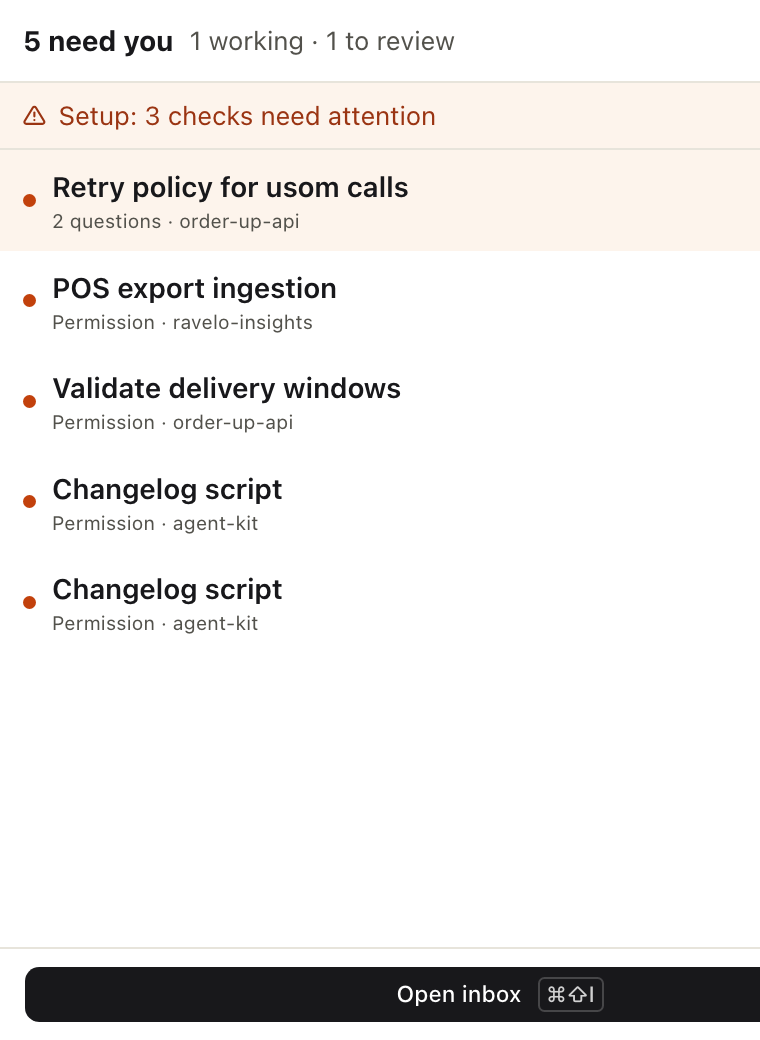
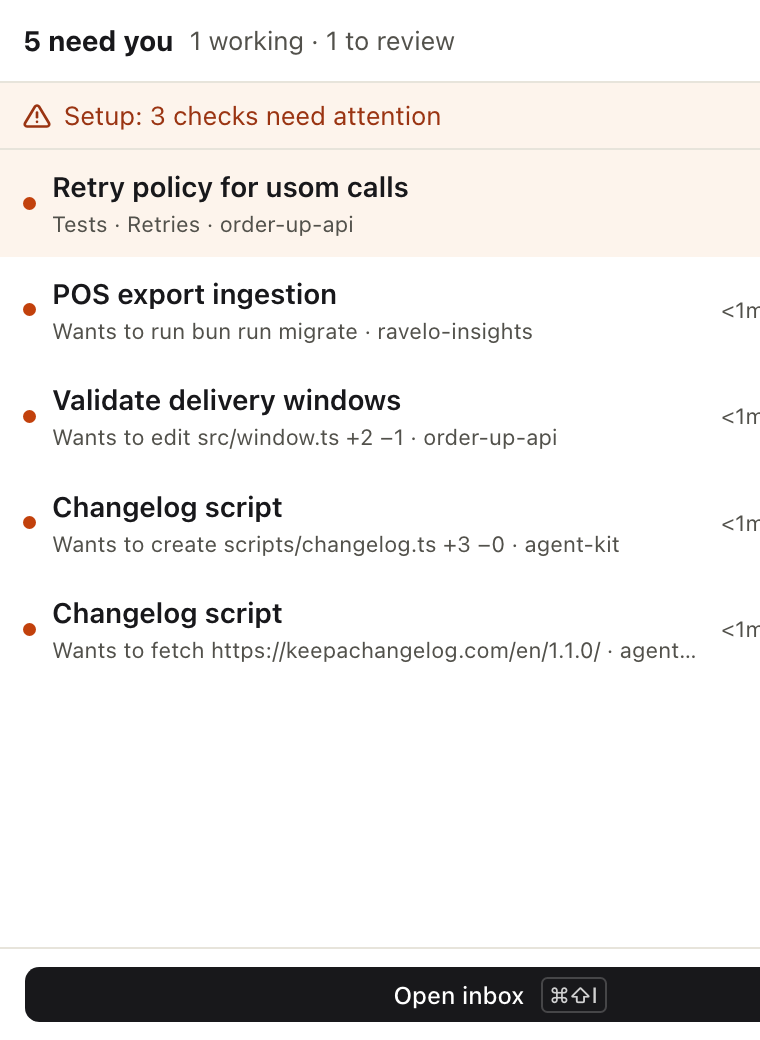
UX log second pass, docs and screenshots for History and the UX fixes
Re-measured on the real daemon: clearing four tool calls is 4 steps (was 7),
a review item 1 (was 2), the popover answers in 2 (was 3); smallest text is
11px (was 9.75px). Docs pages, changelog and all screenshots updated; G-033
and U-077 recorded.

diff --git a/apps/desktop/src/view/preview.ts b/apps/desktop/src/view/preview.ts
@@ -213,7 +213,10 @@ const commandView = (h: H, p: Extract<ApprovalPreview, { _tag: "command" }>): Ht
             ? h.empty
             : h.span(
                 [h.Title(p.cwd)],
-                ["in ", h.span([h.Class("font-mono")], [p.displayCwd ?? p.cwd])],
+                // "." is the daemon's word for the project root; "in ." reads like a typo (UX-060).
+                p.displayCwd === "."
+                  ? ["in the project folder"]
+                  : ["in ", h.span([h.Class("font-mono")], [p.displayCwd ?? p.cwd])],
               ),
           p.timeoutMs === undefined ? h.empty : h.span([], [`timeout ${seconds(p.timeoutMs)}`]),
           p.background === true ? h.span([], ["runs in the background"]) : h.empty,

diff --git a/apps/desktop/src/view/detail.ts b/apps/desktop/src/view/detail.ts
@@ -1097,7 +1097,14 @@ const activityView = (model: Model, detail: ItemDetail, h: H): Html => {
         [
           h.h2(
             [h.Class("text-[14px] font-semibold")],
-            [entries.length === 0 ? "No activity yet" : `Since you left · ${minutes} min`],
+            [
+              entries.length === 0
+                ? "No activity yet"
+                : // A finished item is a record, not something you stepped away from (UX-061).
+                  detail.item.queue === "done"
+                  ? "Session activity"
+                  : `Since you left · ${minutes} min`,
+            ],
           ),
           h.button(
             [

diff --git a/UX.md b/UX.md
@@ -14,101 +14,124 @@ The audience is a power user who runs several Claude Code sessions at once. Dens
 
 ## Scorecard
 
-| Feature | 2026-11-10 baseline | Why |
-| --- | --- | --- |
-| Notification banners and their buttons | not graded | No person has seen them yet (see the docs' "Not yet verified by a person" list). One click by design. |
-| Menu-bar popover | 6 | Counts are clear. Rows show the session and "Permission" but not what is being asked, so two requests from one session look identical; nothing can be decided here. |
-| Inbox window layout (tree, queue, detail) | 7 | The three panes are easy to read. The context strip spends four boxed cells on one line of facts and pushes the action down. |
-| Session tree | 7 | Arrow keys, counts per project, agents nested. The blue dot means "working" here and "unread" in the queue. |
-| Queue tabs and list | 6 | The four tabs wrap onto two rows at the default width. No keyboard way through the list. After an answer the selection stays on the finished item. |
-| Answering questions | 8 | Options, Other, a single Send, ⌘↵. The Other field wraps onto its own line for one question and not the next. |
-| Approving a tool call (diff, command, fetch) | 8 | The preview and "what Claude said" are the best part of the app. The title says "Claude wants to use Edit" while the queue row says the useful thing. No way to deny with a note. After deciding, disabled buttons and the Always allow hint stay on screen. |
-| Always allow | 8 | It says exactly which rule is added and where. The sentence is set at 9.75px. |
-| Ready to review and Stopped with errors | 5 | The natural last step, "I've looked, clear it", is Dismiss inside the Snooze menu. |
-| Replies | 6 | Works where the `claude` CLI is logged in. The reason it can't send is shown, which is good. |
-| Snooze, dismiss, mute | 5 | Three different actions under a button labelled Snooze. Mute is only found there, and unmute only in Settings. The menu is offered on finished items, where the daemon refuses it. |
-| Jump to session (⌘K) | 8 | Fast, shows project and state. |
-| Open in Claude | 9 | One click from every item; lands on the exact session. |
-| Settings | 6 | Applies live with no Save, without saying so. Two fields are both called "Wait for an answer". Classic-only settings stay on screen with "Not used…" repeated three times. The title reads "Settings · ga". |
-| Setup check | 8 | Each line says what is wrong and offers the fix. |
-| Update banner and Update now | not graded | Not exercised in this pass. |
-| History and search | not graded | Being built on 2026-11-10; graded in the next column. |
-| Keyboard | 5 | ⌘↵, ⌘⌫, ⌘K, ⌘, and the tree arrows exist. Nothing moves through the queue, nothing clears a review item, and there is no list of shortcuts in the app. |
-| Type, icons and radius | 5 | One family and a consistent radius. But the root size is 13px, so every `text-xs` label renders at 9.75px (38 of them on the main view) and icons at 10–11px. |
-| Dark mode | 8 | Matches light closely; tones hold up. |
-| Accessibility basics | 7 | Every control has a name; roles for tabs, tree and radios are right. The 9.75px text and a few 20–23px targets are the gaps. |
+| Feature | 2026-11-10 baseline (`79a7376`) | 2026-11-10 after fixes (`3b2144c`) | Why it is where it is now |
+| --- | --- | --- | --- |
+| Notification banners and their buttons | not graded | not graded | No person has seen them yet (see the docs' "Not yet verified by a person" list). One click by design. |
+| Menu-bar popover | 6 | 8 | Rows now say what is asked, and a waiting tool call has **Allow** and **Deny** on its row. No preview and no Always allow there; items to review aren't listed. |
+| Inbox window layout (tree, queue, detail) | 7 | 8 | The boxed context strip is one line of facts, so the action sits about 70px higher. |
+| Session tree | 7 | 8 | Arrow keys, counts, nested agents. Blue now only means "working". |
+| Queue tabs and list | 6 | 8 | One row of tabs, `j` / `k` through the list, and the next item is selected after an answer. |
+| Answering questions | 8 | 8 | The Other field is laid out the same for every question and the footer says what really happens. No number keys for options. |
+| Approving a tool call (diff, command, fetch) | 8 | 9 | The title says what is asked, Deny takes a note, and a decided card is one clean line. |
+| Always allow | 8 | 8 | Says exactly which rule is added and where, now at 11px. |
+| Ready to review and Stopped with errors | 5 | 8 | A **Done** button and `e`. The item you just cleared doesn't say "Dismissed" until you look in History. |
+| Replies | 6 | 6 | Unchanged. Works where the `claude` CLI is logged in, and says why when it can't send. |
+| Snooze, dismiss, mute | 5 | 6 | Done left the menu for review and failed items, and the menu is gone from finished ones. Dismiss (questions, permissions) and Mute are still found only by opening Snooze. |
+| Jump to session (⌘K) | 8 | 8 | Fast, shows project and state. |
+| Open in Claude | 9 | 9 | One click from every item; lands on the exact session. |
+| Settings | 6 | 8 | Says changes apply at once, shows classic-only settings only in classic mode, and drops "ga". |
+| Setup check | 8 | 8 | Each line says what is wrong and offers the fix. |
+| Update banner and Update now | not graded | not graded | Not exercised in either pass. |
+| History and search | not there | 8 | Finished items by day with how each ended, word search with a "Matched in…" line, kind chips, `j` / `k`. No key to focus the search field, no project or date filter, and the first entry isn't selected for you. |
+| Keyboard | 5 | 8 | `j` / `k`, `e`, `?` and a shortcut list joined ⌘↵, ⌘⌫, ⌘K and ⌘,. Still no key for Snooze, Always allow or a question's options. |
+| Type, icons and radius | 5 | 8 | Six text sizes from 11 to 22px (was eight, down to 9.75px); icons 12, 14 and 16px (was 10 to 13px). |
+| Dark mode | 8 | 8 | Matches light closely, History included. |
+| Accessibility basics | 7 | 8 | Every control named, no text under 11px, no target under 24px, no pair under 4.5:1 on the main view. |
 
 ## Step log
 
-Starting point unless stated: the inbox window is open on **Needs you** with the first item selected.
+Starting point unless stated: the inbox window is open on **Needs you** with the first item selected. Counts in the second column were re-taken on the real daemon (the demo) after the fixes.
 
-| # | Task | 2026-11-10 baseline | Target | Note |
-| --- | --- | --- | --- | --- |
-| 1 | Allow a tool call from its notification | 1 | 1 | Unseen by a person. |
-| 2 | Allow the selected tool call | 1 (click or ⌘↵) | 1 | |
-| 3 | Clear four waiting tool calls in a row | 7 (allow, then select + allow three times) | 4 | Needs auto-advance. |
-| 4 | Answer a two-question item | 3 (two options, Send) | 3 | |
-| 5 | Move to the next item without the mouse | not possible | 1 | Needs a queue key. |
-| 6 | Deny and tell Claude why | not possible in the inbox | 2 | Only Open in Claude today. |
-| 7 | Clear a review item after reading it | 2 (Snooze menu, Dismiss) | 1 | Needs a visible button. |
-| 8 | Snooze an item for an hour | 2 | 2 | |
-| 9 | Mute a project | 2 (Snooze menu, Mute) | 2 | Findable only by opening the Snooze menu. |
-| 10 | Unmute a project | 3 (Settings, scroll, remove) | 3 | |
-| 11 | Jump to a session by name | 3 (⌘K, type, ↵) | 3 | |
-| 12 | Open the session in Claude | 1 | 1 | |
-| 13 | Decide a tool call from the menu-bar popover | 3 (menu-bar icon, row, Allow in the window) | 2 | Would need Allow and Deny in the popover row. |
-| 14 | Tell two requests from one session apart in the popover | not possible without opening each | 0 | Rows should show what is asked. |
-| 15 | Find what you allowed yesterday | not possible | 3 (History, type, row) | Needs History. |
-| 16 | Turn approvals in the inbox off | 2 (⌘, then the checkbox) | 2 | |
-| 17 | See why notifications aren't arriving | 1 (Setup check) | 1 | |
+| # | Task | Baseline (`79a7376`) | After fixes (`3b2144c`) | Target | Note |
+| --- | --- | --- | --- | --- | --- |
+| 1 | Allow a tool call from its notification | 1 | 1 | 1 | Unseen by a person. |
+| 2 | Allow the selected tool call | 1 | 1 | 1 | Click or ⌘↵. |
+| 3 | Clear four waiting tool calls in a row | 7 | 4 | 4 | ⌘↵ four times; the next item is selected for you. |
+| 4 | Answer a two-question item | 3 | 3 | 3 | Two options, Send. |
+| 5 | Move to the next item without the mouse | not possible | 1 | 1 | `j`. |
+| 6 | Deny and tell Claude why | not possible | 2 | 2 | Type the note, Enter. |
+| 7 | Clear a review item after reading it | 2 | 1 | 1 | **Done** or `e`. |
+| 8 | Snooze an item for an hour | 2 | 2 | 2 | |
+| 9 | Mute a project | 2 | 2 | 2 | Still findable only by opening the Snooze menu. |
+| 10 | Unmute a project | 3 | 3 | 3 | |
+| 11 | Jump to a session by name | 3 | 3 | 3 | ⌘K, type, ↵. |
+| 12 | Open the session in Claude | 1 | 1 | 1 | |
+| 13 | Decide a tool call from the menu-bar popover | 3 | 2 | 2 | Menu-bar icon, **Allow** on the row. |
+| 14 | Tell two requests from one session apart in the popover | not possible | 0 | 0 | The row shows what is asked. |
+| 15 | Find what you allowed yesterday | not possible | 3 | 3 | History, type a word, the row. |
+| 16 | Turn approvals in the inbox off | 2 | 2 | 2 | ⌘, then the checkbox. |
+| 17 | See why notifications aren't arriving | 1 | 1 | 1 | Setup check. |
+| 18 | See the note you sent with a denial | not possible | 2 | 2 | History, the row: "Sent with the denial: …". |
 
 ## Findings
 
 ### Flow and steps
 
-- **UX-001** (open) After an answer or decision the selection stays on the finished item; the next one needs a click. Clearing N items costs 2N−1 steps.
-- **UX-002** (open) No key moves through the queue list; the arrows only work in the session tree.
-- **UX-003** (open) A review or failed item has no visible "done" action. Dismiss is in the Snooze menu.
-- **UX-004** (open) The popover row doesn't show what is being asked, and nothing can be answered there.
-- **UX-005** (open) A tool call can't be denied with a note from the inbox, although Claude's hook accepts one.
-- **UX-006** (open) Finished items could not be found again. History is being built for this.
+- **UX-001** (fixed 2026-11-10, U-059) After an answer or decision the selection stays on the finished item; the next one needs a click. Clearing N items costs 2N−1 steps.
+- **UX-002** (fixed 2026-11-10, U-060) No key moves through the queue list; the arrows only work in the session tree.
+- **UX-003** (fixed 2026-11-10, U-061) A review or failed item has no visible "done" action. Dismiss is in the Snooze menu.
+- **UX-004** (fixed 2026-11-10, U-062) The popover row doesn't show what is being asked, and nothing can be answered there.
+- **UX-005** (fixed 2026-11-10, U-063, C-028) A tool call can't be denied with a note from the inbox, although Claude's hook accepts one.
+- **UX-006** (fixed 2026-11-10, G-032, C-027, D-096, U-052 to U-058) Finished items could not be found again. History is being built for this.
 
 ### Not obvious
 
-- **UX-010** (open) The button labelled Snooze also holds Dismiss and Mute.
-- **UX-011** (open) The blue dot means "working" in the tree and "unread" in the queue.
-- **UX-012** (open) Settings apply at once, with no Save button and nothing saying so.
-- **UX-013** (open) Two settings share the label "Wait for an answer" (minutes for the default mode, seconds for classic).
-- **UX-014** (open) Classic-only settings are shown, each with "Not used while the inbox answers Claude's own prompt", while the default mode is on.
-- **UX-015** (open) "Settings · ga" shows an internal channel name.
-- **UX-016** (open) "Decided: allow at 08:23." prints the internal value, and the disabled Allow, Always allow and Deny buttons plus the Always allow hint stay under it.
-- **UX-017** (open) The Snooze menu is offered on a finished item; the daemon answers 409.
-- **UX-018** (open) The detail title for a tool call is "Claude wants to use Edit"; the queue row's "Wants to edit src/window.ts" is the informative line.
-- **UX-019** (open) The question card says the session is "paused waiting"; in the default mode Claude is also asking in its own window.
+- **UX-010** (open, partly: Done moved out for review and failed items, U-061) The button labelled Snooze also holds Dismiss and Mute.
+- **UX-011** (fixed 2026-11-10, U-069) The blue dot means "working" in the tree and "unread" in the queue.
+- **UX-012** (fixed 2026-11-10, U-074) Settings apply at once, with no Save button and nothing saying so.
+- **UX-013** (fixed 2026-11-10, U-074) Two settings share the label "Wait for an answer" (minutes for the default mode, seconds for classic).
+- **UX-014** (fixed 2026-11-10, U-074) Classic-only settings are shown, each with "Not used while the inbox answers Claude's own prompt", while the default mode is on.
+- **UX-015** (fixed 2026-11-10, U-074) "Settings · ga" shows an internal channel name.
+- **UX-016** (fixed 2026-11-10, U-064) "Decided: allow at 08:23." prints the internal value, and the disabled Allow, Always allow and Deny buttons plus the Always allow hint stay under it.
+- **UX-017** (fixed 2026-11-10, U-065) The Snooze menu is offered on a finished item; the daemon answers 409.
+- **UX-018** (fixed 2026-11-10, U-066) The detail title for a tool call is "Claude wants to use Edit"; the queue row's "Wants to edit src/window.ts" is the informative line.
+- **UX-019** (fixed 2026-11-10, U-067) The question card says the session is "paused waiting"; in the default mode Claude is also asking in its own window.
 
 ### Type, icons, radius, spacing
 
-- **UX-020** (open) Root font size is 13px, so Tailwind's `text-xs` is 9.75px: project names on rows, "waiting 1m", badges, timeline times, the Always allow sentence. Minimum should be 11px.
-- **UX-021** (open) Icons render at 10–11px beside 13px text; the kind icons in badges are hard to tell apart.
-- **UX-022** (open) The queue tabs wrap ("Snoozed 0" alone on a second row) at 1280px.
-- **UX-023** (open) The context strip is a four-cell boxed grid (Runs on, Branch, Session, Last activity) about 90px tall; Branch is often "—".
-- **UX-024** (open) "Snooze until tomorrow 9:00" wraps inside its menu.
-- **UX-025** (open) The Other field sits on its own row for one question and inline for the next.
-- **UX-026** (open) In Settings the selected tool chips are dark grey filled, which reads as disabled.
-- **UX-027** (open) A decided approval card keeps the orange "needs you" border.
+- **UX-020** (fixed 2026-11-10, U-068) Root font size is 13px, so Tailwind's `text-xs` is 9.75px: project names on rows, "waiting 1m", badges, timeline times, the Always allow sentence. Minimum should be 11px.
+- **UX-021** (fixed 2026-11-10, U-076) Icons render at 10–11px beside 13px text; the kind icons in badges are hard to tell apart.
+- **UX-022** (fixed 2026-11-10, U-070) The queue tabs wrap ("Snoozed 0" alone on a second row) at 1280px.
+- **UX-023** (fixed 2026-11-10, U-071) The context strip is a four-cell boxed grid (Runs on, Branch, Session, Last activity) about 90px tall; Branch is often "—".
+- **UX-024** (fixed 2026-11-10, U-072) "Snooze until tomorrow 9:00" wraps inside its menu.
+- **UX-025** (fixed 2026-11-10, U-072) The Other field sits on its own row for one question and inline for the next.
+- **UX-026** (fixed 2026-11-10, U-074) In Settings the selected tool chips are dark grey filled, which reads as disabled.
+- **UX-027** (fixed 2026-11-10, U-064) A decided approval card keeps the orange "needs you" border.
 
 ### Power user
 
-- **UX-030** (open) No in-app list of shortcuts.
+- **UX-030** (fixed 2026-11-10, U-073) No in-app list of shortcuts.
 - **UX-031** (open) No keys for Always allow, Snooze or picking a question's option by number.
+- **UX-032** (open) No key puts the cursor in History's search field (`/` is the usual one).
+
+### Found in the second pass
+
+- **UX-050** (fixed 2026-11-10, U-075) History's search field and chips scrolled away with the list.
+- **UX-051** (fixed 2026-11-10, U-066) A finished item's title was in the present tense ("Claude has 1 question for you").
+- **UX-052** (fixed 2026-11-10, U-075) History rows cut a long summary at one line.
+- **UX-053** (fixed 2026-11-10) The new permission title carried the diff count ("… src/window.ts +2 −1") and wrapped; the count stays on the row and above the diff.
+- **UX-054** (fixed 2026-11-10, C-028) A denial's note could be sent but not seen again; the finished item now shows "Sent with the denial: …".
+- **UX-060** (fixed 2026-11-10) A command that runs in the project root said "in ."; it says "in the project folder".
+- **UX-061** (fixed 2026-11-10) A finished item's activity was headed "Since you left · 1 min"; it is headed "Session activity".
+- **UX-062** (open) A question's detail says the count twice: the title "Claude has 2 questions for you" and the "2 questions" badge under it.
+- **UX-063** (open) The activity heading "Since you left · 1 min" doesn't say what you left; the number is the age of the oldest line shown.
+- **UX-055** (open) An item you just cleared with Done still shows its "Ready to review" badge and no "Dismissed" until you find it in History.
+- **UX-056** (open) Opening History selects nothing; the inbox selects the first item for you.
+- **UX-057** (open) History has no project or date filter; a project's name in the search box does the first.
+- **UX-058** (open) The popover lists only what needs you; an item to review is a count, not a row.
+- **UX-059** (open) `?` is read as Shift+/ and is untested on non-US keyboard layouts.
 
 ### Accessibility
 
-- **UX-040** (open) Three targets are under 24px tall: the two agent rows in the tree (23px) and "Full transcript in Claude" (20px).
+- **UX-040** (fixed 2026-11-10, U-072) Three targets are under 24px tall: the two agent rows in the tree (23px) and "Full transcript in Claude" (20px).
 
 ## Changes
 
-- 2026-11-10 — First review pass on the build at `79a7376`: scorecard, step log and findings above. The demo (`scripts/demo.ts`) now waits on its seeded requests like a real hook, so they stay answerable while you review.
+- 2026-11-10 — Second pass on `3b2144c`, re-measured on the real daemon: scores and step counts above. Still open: UX-010 (partly), UX-031, UX-032, UX-055 to UX-059, UX-062, UX-063.
+- 2026-11-10 — A denial's note shows on the finished item; permission titles drop the diff count (C-028, U-077); "in the project folder" and "Session activity" wording. Closes UX-053, UX-054, UX-060, UX-061.
+- 2026-11-10 — The review's fixes (U-059 to U-076): auto-advance, `j` / `k`, **Done** and `e`, popover rows with what is asked plus **Allow** and **Deny**, deny with a note, clean decided cards, titles, an 11px type floor, pixel-sized icons, one row of tabs, a one-line context strip, Settings clean-up, a shortcut list on `?`, a sticky History header. Closes UX-001 to UX-005, UX-011 to UX-027, UX-030, UX-040, UX-050 to UX-052.
+- 2026-11-10 — History and search (G-032, C-027, D-096, D-097, U-052 to U-058). Closes UX-006.
+- 2026-11-10 — First review pass on the build at `79a7376`: scorecard, step log and findings. The demo (`scripts/demo.ts`) now waits on its seeded requests like a real hook, so they stay answerable while you review, and seeds finished items across several days for History.
 
 ## Method notes
 

diff --git a/site/content/using-it.md b/site/content/using-it.md
@@ -33,12 +33,13 @@ When the menu-bar app isn't allowed to show notifications, or isn't running, Ses
 The menu-bar icon carries a badge with the number of items that **need you**. Click it for the popover:
 
 - a header with the counts ("2 need you", "1 working · 3 to review");
-- the items that need you, one row each. Click a row to open it in the inbox window;
+- the items that need you, one row each, with what is being asked ("Wants to run bun run migrate") and the project. Click a row to open it in the inbox window;
+- **Allow** and **Deny** on the row of a tool call that is waiting right now, so you can answer without opening the window. There is no preview and no **Always allow** here; open the row when you want to see the diff first;
 - when nothing needs you, up to five **Ready to review** rows with a one-line summary of what was done;
 - a banner row when an update is ready, and a **Setup** row when the setup check has something for you;
 - an **Open inbox** button. The shortcut <kbd>⌘</kbd><kbd>⇧</kbd><kbd>I</kbd> opens the main window from anywhere.
 
-[[screenshot popover.png 380x520 The menu-bar popover: a header with the count of items that need you, a Setup row saying how many checks need attention, rows for each item with its title, the kind of request and the project, and an Open inbox button at the bottom.]]
+[[screenshot popover.png 380x520 The menu-bar popover: a header with the count of items that need you, a Setup row saying how many checks need attention, rows for each item with its title, what is being asked and the project, Allow and Deny buttons on the tool calls that are waiting, and an Open inbox button at the bottom.]]
 
 Right-click the icon for its menu:
 
@@ -57,12 +58,14 @@ The window has a tree on the left (project, then session, then subagent), a queu
 
 - **Needs you:** questions, permission requests and failures. This is the list that drives the badge.
 - **Working:** sessions that are running right now. Nothing for you to do, but handy to see what's in flight.
-- **Ready to review:** sessions that stopped cleanly. Open one when you're ready to look at the result.
+- **Review:** sessions that stopped cleanly, the items marked **Ready to review**. Open one when you're ready to look at the result, then choose **Done**.
 - **Snoozed:** items you've put off. They come back at the time you chose and notify once.
 
 The inbox never decides which queue an item belongs in. The daemon does, and the window shows its answer.
 
-The selected item shows when and where the session runs (the desktop app or the CLI, its worktree or branch, its state and its last activity). For a finished or failed session it also shows **Claude's last message**, in full and formatted as Markdown, so you can review the result without opening Claude. A long message is collapsed; use **Show all** to expand it.
+When you answer, decide, snooze or clear the selected item, the next item in the list is selected for you, so a run of requests is one keystroke each. A reply doesn't move on, so you can see it being delivered.
+
+Under its title, the selected item has one line saying where the session runs (the desktop app or the CLI), its worktree or branch, its state and its last activity. For a finished or failed session it also shows **Claude's last message**, in full and formatted as Markdown, so you can review the result without opening Claude. A long message is collapsed; use **Show all** to expand it.
 
 Session titles come from the Claude desktop app's own title for the session when there is one. Otherwise they start as your first prompt and are replaced a moment later by a short title written by Claude, which needs the `claude` CLI to be logged in. Turn that off with **Generate short session titles** in [Settings](settings.md).
 
@@ -91,7 +94,7 @@ You have three choices:
 
 - **Allow once** lets this call run.
 - **Always allow** lets it run and adds one narrow rule, so Claude doesn't ask again for this kind of call. The card says what it adds: "Always allow adds <rule> <where>." For a file tool that's that one file, for WebFetch the host, for Bash the exact command, for an MCP tool that tool. If Claude suggests its own rule, that rule is used and the card shows where it's saved (this session, this project's `.claude/settings.local.json`, the project settings or your user settings). When no narrow rule fits, the button isn't shown. It never allows a whole tool by name. See [How approvals work](holds.md#what-each-answer-does).
-- **Deny** stops the call. Claude is told "Denied by the user in Session Inbox." and carries on.
+- **Deny** stops the call. Claude is told "Denied by the user in Session Inbox." and carries on. To say why, type in **Tell Claude why (optional)** beside the button first and press <kbd>↵</kbd> or **Deny**: Claude gets your words with the denial, and the finished item shows them as "Sent with the denial: …". The field is there while the inbox can still answer the call.
 
 In the default mode, Claude's own prompt stays on screen in Claude while you decide here, and whichever you answer first wins. Allow and answers took effect about 30 ms after the decision in testing. In the classic mode, where the call is held, an allow ran it half a second later, and the very first Bash call of a Claude session takes Claude itself about ten seconds to start, however long it was held.
 
@@ -109,10 +112,12 @@ A reply shows as pending, then delivered once the session's next activity confir
 
 ## Snooze, dismiss and mute
 
-Each item has a **Snooze** menu for putting it aside:
+A **Ready to review** or **Stopped with errors** item has a **Done** button (or press <kbd>e</kbd>): it clears the item once you've looked. In [History](#history) it shows as **Dismissed**.
+
+Each open item has a **Snooze** menu for putting it aside:
 
 - **Snooze 15 minutes**, **Snooze 1 hour** or **Snooze until tomorrow 9:00**. The item leaves **Needs you** and comes back, with one notification, when the time is up.
-- **Dismiss** closes the item without answering it.
+- **Dismiss** closes a question or permission request without answering it. Review and failed items have **Done** instead.
 - **Mute** the project stops that project's items from notifying and from being answered here. Claude behaves as if Session Inbox weren't there for that project. The same menu says **Unmute** once it's muted, and [Settings](settings.md) lists muted projects with an **Unmute** button.
 
 **Pause notifications** in the menu-bar menu silences everything except permission requests, until you turn it off.
@@ -130,6 +135,8 @@ Once you answer an item, or Claude moves on without it, the item leaves the queu
 | **Session moved on** | A finished or failed session that carried on without a reply from the inbox. |
 | **Not answered** | A tool call the inbox was holding (classic mode) was released unanswered because the turn or the session ended first. |
 | **Dismissed** | You dismissed it. |
+
+[[screenshot history.png 1440x900 The inbox window on History: a search field and kind chips above finished items grouped under Today, Yesterday and a date, each row with how it ended (Answered, Allowed, Denied, Session moved on, Dismissed), and on the right a denied git push with the line Decided here: Denied.]]
 
 Type in **Search history** to narrow the list. Every word has to match, in any of: the item's summary, the session's title, branch and folder, the project's name, a question, its options and your answers, a tool call's name and input (commands and file paths included), a deny reason, or a reply you sent. When a word matched somewhere the row doesn't show, the row adds a line such as "Matched in answer: …". The chips **All**, **Questions**, **Permissions**, **Reviews** and **Errors** filter by kind. **Load more** fetches older entries.
 
@@ -154,10 +161,13 @@ If Claude is paused on a held call (classic mode), **Open in Claude** releases i
 | <kbd>⌘</kbd><kbd>K</kbd> | Jump to a session or project by name |
 | <kbd>⌘</kbd><kbd>↵</kbd> | Send answers, allow once, or send the reply: whichever is the main action of the selected item. While you're typing it works only from the reply box or a question's **Other** field. |
 | <kbd>⌘</kbd><kbd>⌫</kbd> | Deny the permission request on screen. Ignored while you're typing, so it still deletes text. |
+| <kbd>j</kbd> <kbd>k</kbd> | Next and previous item in the list on screen: the queue, the sessions under **Working**, or the entries in History |
+| <kbd>e</kbd> | **Done**: clear the selected review or failed item |
+| <kbd>?</kbd> | Show the list of shortcuts. **Shortcuts** at the bottom of the left side opens it too. |
 | <kbd>↑</kbd> <kbd>↓</kbd> | Move through the session tree |
 | <kbd>⌘</kbd><kbd>,</kbd> | Open [Settings](settings.md) |
 
-<kbd>⌘</kbd><kbd>↵</kbd>, <kbd>⌘</kbd><kbd>⌫</kbd>, <kbd>⌘</kbd><kbd>K</kbd> and <kbd>⌘</kbd><kbd>,</kbd> work in the inbox window, not in the popover. <kbd>⌘</kbd><kbd>↵</kbd> and <kbd>⌘</kbd><kbd>⌫</kbd> act only on the inbox view with no dialog or menu open, so they never answer an item hidden behind Settings or the <kbd>⌘</kbd><kbd>K</kbd> jump box.
+The letter keys and <kbd>?</kbd> do nothing while you type in a field or while a dialog or menu is open. <kbd>⌘</kbd><kbd>↵</kbd>, <kbd>⌘</kbd><kbd>⌫</kbd>, <kbd>⌘</kbd><kbd>K</kbd> and <kbd>⌘</kbd><kbd>,</kbd> work in the inbox window, not in the popover. <kbd>⌘</kbd><kbd>↵</kbd> and <kbd>⌘</kbd><kbd>⌫</kbd> act only on the inbox view with no dialog or menu open, so they never answer an item hidden behind Settings or the <kbd>⌘</kbd><kbd>K</kbd> jump box.
 
 ## Opening the inbox in a browser
 

diff --git a/site/content/settings.md b/site/content/settings.md
@@ -7,7 +7,7 @@ section: Guides
 
 # Settings
 
-Open the Settings pane from the inbox window with <kbd>⌘</kbd><kbd>,</kbd>, with the gear button in the header, or with **Settings…** in the menu-bar menu. It is a dialog with five groups: **Approvals**, **Notifications**, **Sessions**, **Storage** and **Updates**. The title shows which install you're looking at (`Settings · ga`, or `beta`).
+Open the Settings pane from the inbox window with <kbd>⌘</kbd><kbd>,</kbd>, with the gear button in the header, or with **Settings…** in the menu-bar menu. It is a dialog with five groups: **Approvals**, **Notifications**, **Sessions**, **Storage** and **Updates**. The title is **Settings**, with a **Beta** badge on the beta install, and under it: "Changes apply as you make them." There is no Save button.
 
 Each control saves on its own, and the daemon applies the change at once: you don't restart anything, and Claude sessions that are already running pick it up on their next event. Switches save when you click them. Number boxes save when you press <kbd>Enter</kbd> or click away. A row shows "Saving…" and then "Saved", or the daemon's error if it refused the value.
 
@@ -17,16 +17,16 @@ When a value differs from its default, the row shows the default and a **Reset**
 
 ## Approvals
 
-These control [how approvals work](holds.md). Rows that don't apply to the mode you chose are greyed out, with a note, or hidden. Everything under the first switch is greyed out while it's off.
+These control [how approvals work](holds.md). Rows that don't apply to the mode you chose are hidden; their values are kept for when you switch back. Everything under the first switch is greyed out while it's off.
 
 | Setting | Default | What it does |
 | --- | --- | --- |
 | **Hold tool calls for approval in the inbox** | on | When off, the inbox only observes and notifies; Claude asks in its own window. Turning it off releases anything held right now. A second install beside another starts with this off. |
 | **How approvals reach the inbox** | **Answer Claude's own prompt (recommended)** | The other choice is **Hold the tool call before Claude asks (classic)**. Recommended: Claude's prompt stays visible in Claude and the inbox answers it; whichever is answered first wins, for every tool Claude asks about. Classic: the inbox holds Bash, edits and web fetches for up to two minutes before Claude shows its own prompt. |
 | **Wait for an answer** (minutes) | 10 minutes | Shown only in the recommended mode. Then the inbox stops answering and Claude's prompt stays open in Claude. 1 to 55 minutes. |
-| **Tools that can be held** | Bash, Write, Edit, MultiEdit, NotebookEdit, WebFetch | Classic mode only. Only when Claude itself would ask. Questions (`AskUserQuestion`) always come to the inbox. In the recommended mode it's greyed out: "Not used while the inbox answers Claude's own prompt." |
+| **Tools that can be held** | Bash, Write, Edit, MultiEdit, NotebookEdit, WebFetch | Classic mode only; hidden in the recommended mode. Only when Claude itself would ask. Questions (`AskUserQuestion`) always come to the inbox. |
 | **Wait for an answer** (seconds) | 120 seconds | Classic mode only; hidden in the recommended mode. Then Claude shows its own prompt. 15 to 120 seconds. |
-| **Bash commands never held** | `ls`, `pwd`, `echo`, `cat`, `head`, `tail`, `wc`, `which`, `git status`, `git diff`, `git log` | Classic mode only, with the same greyed-out note otherwise. A command matches when it is the prefix or starts with it plus a space. A command with shell operators in it never counts as safe. |
+| **Bash commands never held** | `ls`, `pwd`, `echo`, `cat`, `head`, `tail`, `wc`, `which`, `git status`, `git diff`, `git log` | Classic mode only; hidden in the recommended mode. A command matches when it is the prefix or starts with it plus a space. A command with shell operators in it never counts as safe. |
 
 If another install is on the same Mac, the first row adds a note: only one install should answer approvals, because if both do, each waits for its own answer. See [GA and beta channels](channels.md).
 

diff --git a/DECISIONS.md b/DECISIONS.md
@@ -48,6 +48,7 @@ entries with your section's prefix (G, C, D, H, U, S, P) and the next free numbe
   5. **History and search** over finished items and sessions (cut). The snapshot is deliberately a 24-hour working set (D-025) and v1 is an inbox, not a transcript viewer; search adds an index, a query API and a new view for something Claude's own session list already does.
 - G-031 — Delegation for this round: Opus 5.5 (medium) for the release/installer CLI, the updater, settings and the approval preview; Sonnet 5.5 (medium) for finishing the beta shell. User instruction: Opus on medium wherever possible, Sonnet never above high.
 - G-032 — History and search is built after all (reverses the cut in G-030, on the owner's word, 2026-11-10); the phone push relay stays cut: the product is local and desktop-only. Scope: finished items and how each ended, searchable by what the inbox showed and what you answered. Not Claude's messages or transcripts. Why: once an item is answered it leaves every queue, so "what did I allow an hour ago?" had no answer in the app.
+- G-033 — `UX.md` is the running UX log: a dated score per feature, step counts per task, findings (`UX-NNN`) with a status, and a change list. Decisions that come out of a review still go here in the U section and name the finding. Why: "is it better?" needs numbers that can be re-taken (steps, smallest text, target sizes), not a one-off opinion; a new column is added per pass, old ones are kept.
 
 ## Contracts
 
@@ -288,6 +289,7 @@ entries with your section's prefix (G, C, D, H, U, S, P) and the next free numbe
 - U-074 — Settings (UX-012..UX-015, UX-026): title "Settings", a "Beta" badge on the beta channel only, and "Changes apply as you make them." under it. The classic hold's fields (tools, seconds wait, Bash commands never held) are shown only while classic is chosen (`showWhen`); the daemon keeps their values either way, so the two "Wait for an answer" fields are never on screen together. Tool chips: selected is the primary fill with a check, unselected is dashed and empty.
 - U-075 — History (UX-006 follow-up): the title, search, kind chips and status line stick to the top of the column; kind chips stay on one row; a row's summary wraps to two lines before truncating.
 - U-076 — Icons are explicit pixel sizes (UX-021): 14px beside body text, 12px beside 11–12px labels (badges, chips, links), 16px for the lone Settings gear; stroke unchanged; every icon still sits beside a word.
+- U-077 — A permission title drops the summary's trailing diff count ("Claude wants to edit src/window.ts", not "… +2 −1"), and a denied card shows "Sent with the denial: <reason>" when the user wrote one (C-028). Why: the count wrapped the 22px title and is already on the row and above the diff (UX-053); a note you can send but never see again reads as lost (UX-054).
 
 
 ## Shell

diff --git a/docs/handoff.md b/docs/handoff.md
@@ -4,6 +4,8 @@ Status as of 2026-11-10. **[v0.2.0](https://github.com/dopsonbr/session-inbox/re
 
 ## Where things stand
 
+**Since the release (on `main`, not released):** History and search (G-032, C-027, C-028, D-096, D-097, U-052 to U-058) and a UX review with its fixes (U-059 to U-077). [UX.md](../UX.md) is the running UX log: scores per feature, step counts per task and findings; eight findings are still open there. Checked in the browser against the demo daemon in light and dark, popover included; not yet seen in the real app windows. The installed GA and beta on this Mac are still 0.2.0 without any of it. The next release would be 0.3.0 (`bun scripts/bump.ts minor`, move the changelog's "Unreleased" notes under it, publish when the owner asks), and it is the first chance to watch a real self-update.
+
 **Merged on `main`, tests green:**
 
 - **Releases and the CLI.** `VERSION` is 0.2.0. `scripts/release.ts` builds a tarball (hook, daemon, `session-inbox` CLI, UI, menu-bar app; Apple silicon only, about 125 MB) and `install.sh` installs it with one `curl | sh`. `session-inbox` has `install`, `uninstall`, `update`, `status`, `doctor`, `holds` and `open`. Install from a mirror works too (G-024 to G-029, H-019 to H-035).

diff --git a/site/content/changelog.md b/site/content/changelog.md
@@ -13,6 +13,10 @@ What changed in each release, newest first. Versions are tagged on [GitHub Relea
 
 On `main`, not in a release yet.
 
+- **Fewer steps.** After you answer or decide, the next item is selected. <kbd>j</kbd> and <kbd>k</kbd> move through the list, <kbd>e</kbd> or a **Done** button clears a review item, and <kbd>?</kbd> lists the shortcuts.
+- **Answer from the popover.** Popover rows say what is being asked, and a waiting tool call has **Allow** and **Deny** on its row.
+- **Deny with a note.** Type in **Tell Claude why (optional)** before denying and Claude gets your reason.
+- **Easier to read.** No text under 11px, larger icons, the queue tabs on one row, one line of session facts under the title, and titles that say what is asked ("Claude wants to edit src/window.ts"). Settings says that changes apply as you make them and hides the classic-only settings in the recommended mode.
 - **History and search.** A **History** view in the inbox window lists finished items, newest first, with how each ended (allowed, denied, answered, handled in Claude and so on), and searches what the inbox showed you and what you answered. It is not a transcript search. See [Using it](using-it.md#history).
 
 ## 0.2.0

diff --git a/site/content/holds.md b/site/content/holds.md
@@ -60,9 +60,9 @@ A held call waits up to **120 seconds** for your decision, set by **Wait for an 
 | **Hold tool calls for approval in the inbox** | applies | applies |
 | **How approvals reach the inbox** | applies | applies |
 | **Wait for an answer** (minutes) | shown, 1 to 55 | hidden |
-| **Tools that can be held** | disabled: "Not used while the inbox answers Claude's own prompt." | applies |
+| **Tools that can be held** | hidden | applies |
 | **Wait for an answer** (seconds) | hidden | applies, 15 to 120 |
-| **Bash commands never held** | disabled with the same note | applies |
+| **Bash commands never held** | hidden | applies |
 
 ## When approvals aren't answerable from the inbox
 
